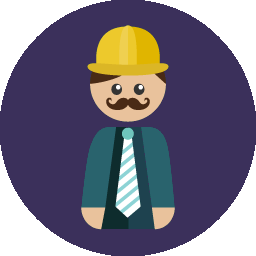
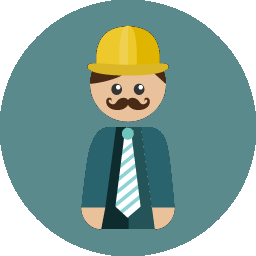
color scheme change

diff --git a/css/freelancer.css b/css/freelancer.css
@@ -53,32 +53,32 @@ hr.star-dark:after {
 }
 
 hr.star-light {
-  border-color: #fde962;
+  border-color: #fff;
 }
 
 hr.reg-light {
-  border-color: #fde962;
+  border-color: #fff;
 }
 
 hr.blue-light {
-  border-color: #3b305b;
+  border-color: #5a8a8b;
 }
 
 hr.star-light:after {
   color: #fff;
-  background-color: #e67963;
+  background-color: #e1695b;
 }
 
 hr.star-dark {
-  border-color: #3b305b;
+  border-color: #5a8a8b;
 }
 
 hr.star-dark-sm {
-  border-color: #3b305b;
+  border-color: #5a8a8b;
 }
 
 hr.star-dark:after {
-  color: #e67963;
+  color: #e1695b;
   background-color: white;
 }
 
@@ -146,7 +146,7 @@ section h2 {
 }
 
 #mainNav .navbar-nav li.nav-item a.nav-link:hover {
-  color: #e67963;
+  color: #e1695b;
 }
 
 #mainNav .navbar-nav li.nav-item a.nav-link:active, #mainNav .navbar-nav li.nav-item a.nav-link:focus {
@@ -154,7 +154,7 @@ section h2 {
 }
 
 #mainNav .navbar-nav li.nav-item a.nav-link.active {
-  color: #e67963;
+  color: #e1695b;
 }
 
 #mainNav .navbar-toggler {
@@ -179,11 +179,11 @@ section h2 {
   }
   #mainNav .navbar-nav > li.nav-item > a.nav-link.active {
     color: #fff;
-    background: #e67963;
+    background: #e1695b;
   }
   #mainNav .navbar-nav > li.nav-item > a.nav-link.active:active, #mainNav .navbar-nav > li.nav-item > a.nav-link.active:focus, #mainNav .navbar-nav > li.nav-item > a.nav-link.active:hover {
     color: #fff;
-    background: #e67963;
+    background: #e1695b;
   }
   #mainNav.navbar-shrink {
     padding-top: 0.5rem;
@@ -349,7 +349,7 @@ header.masthead h2 {
 }
 
 .floating-label-form-group-with-focus label {
-  color: #e67963;
+  color: #e1695b;
 }
 
 form .row:first-child .floating-label-form-group {
@@ -359,20 +359,20 @@ form .row:first-child .floating-label-form-group {
 .footer {
   padding-top: 5rem;
   padding-bottom: 5rem;
-  background-color: #3b305b;
+  background-color: #5a8a8b;
   color: #fff;
 }
 
 .copyright {
-  background-color: #17102d;
+  background-color: #243a3a;
 }
 
 a {
-  color: #e67963;
+  color: #e1695b;
 }
 
 a:focus, a:hover, a:active {
-  color: #e67963;
+  color: #e1695b;
 }
 
 .btn {
@@ -380,37 +380,37 @@ a:focus, a:hover, a:active {
 }
 
 .bg-primary {
-  background-color: #e67963 !important;
+  background-color: #e1695b !important;
 }
 
 .bg-secondary {
-  background-color: #3b305b !important;
+  background-color: #5a8a8b !important;
 }
 
 .text-primary {
-  color: #e67963 !important;
+  color: #e1695b !important;
 }
 
 .text-secondary {
-  color: #3b305b !important;
+  color: #5a8a8b !important;
 }
 
 .btn-primary {
-  background-color: #e67963;
-  border-color: #e67963;
+  background-color: #e1695b;
+  border-color: #e1695b;
 }
 
 .btn-primary:hover, .btn-primary:focus, .btn-primary:active {
-  background-color: #e67963;
-  border-color: #e67963;
+  background-color: #e1695b;
+  border-color: #e1695b;
 }
 
 .btn-secondary {
-  background-color: #3b305b;
-  border-color: #3b305b;
+  background-color: #5a8a8b;
+  border-color: #5a8a8b;
 }
 
 .btn-secondary:hover, .btn-secondary:focus, .btn-secondary:active {
-  background-color: #17102d;
-  border-color: #17102d;
+  background-color: #243a3a;
+  border-color: #243a3a;
 }
